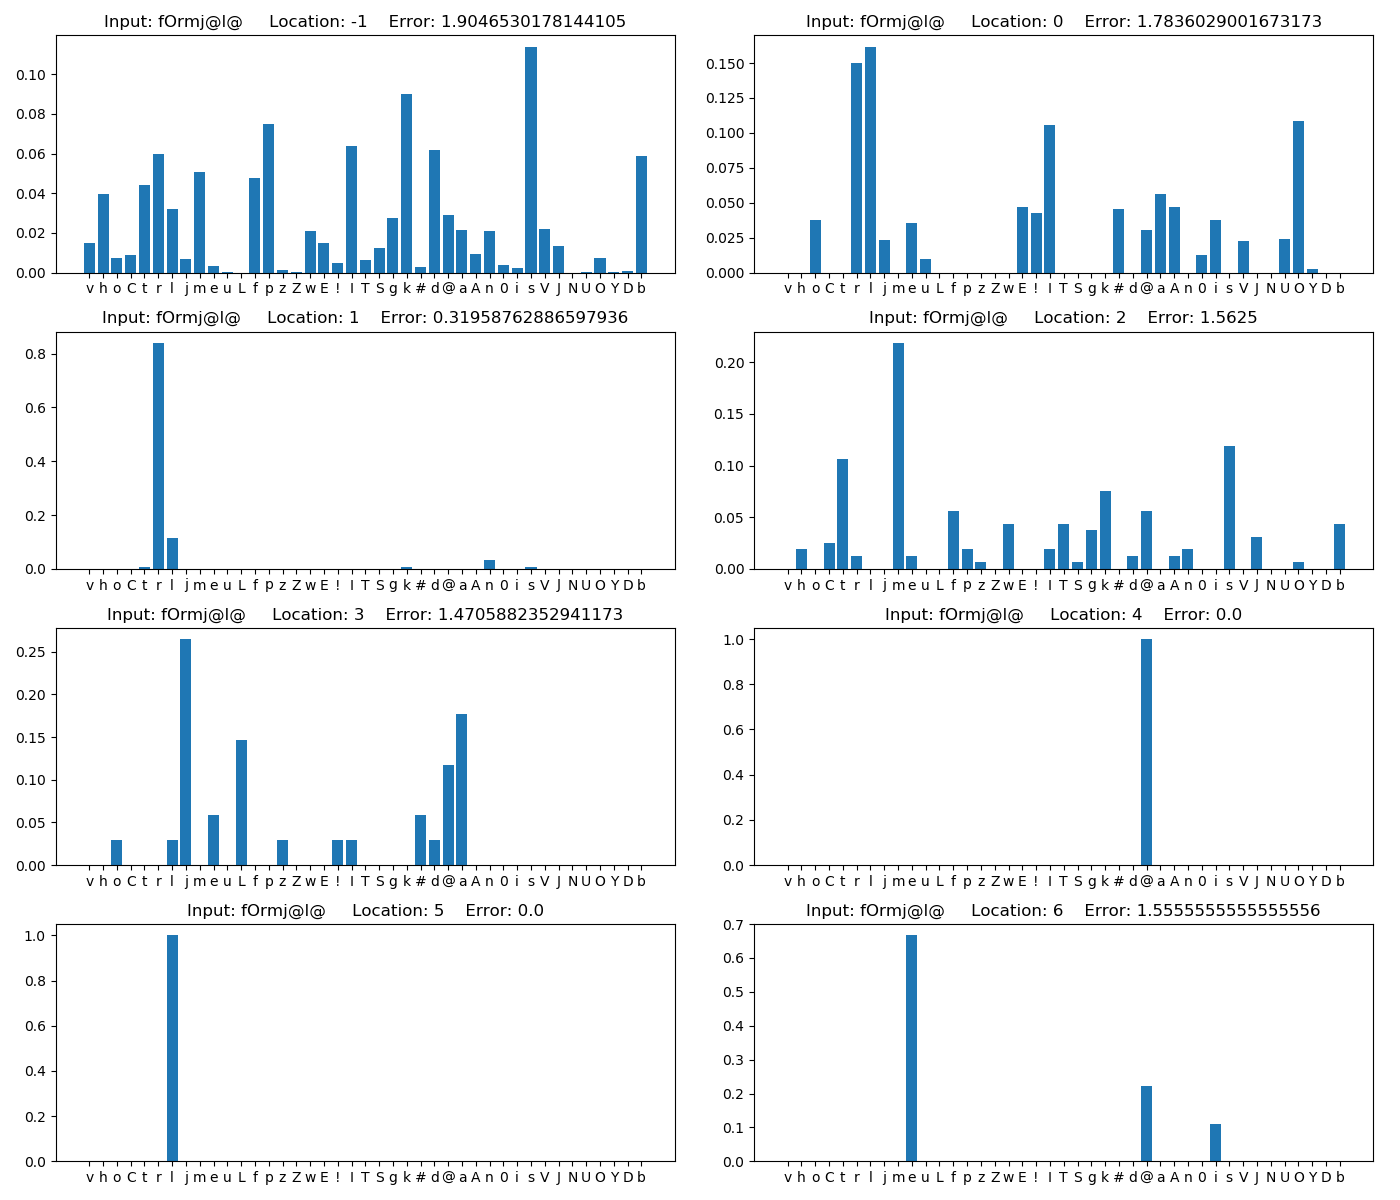
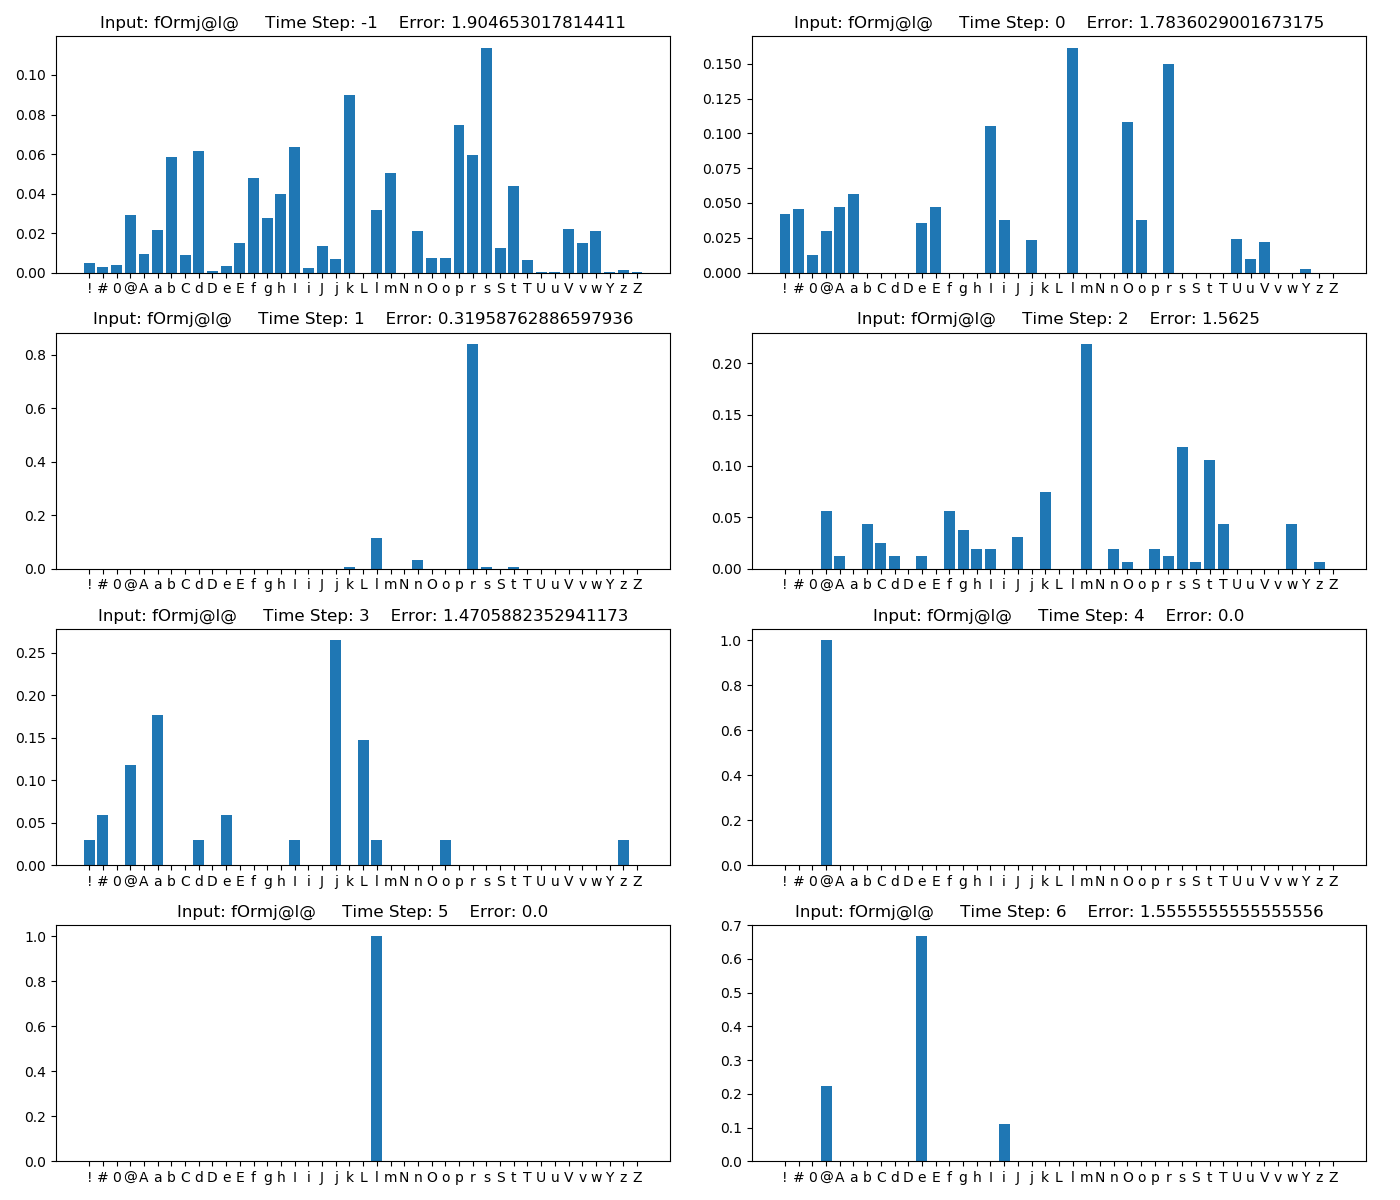
update Gagnepain2012/Gagnepain2012.py
* fix bug to account for when sum_Frequency == 0
* sort phoneme list
* add error plot

diff --git a/Gagnepain2012/Gagnepain2012.py b/Gagnepain2012/Gagnepain2012.py
@@ -30,10 +30,11 @@ class Model:
         self.phoneme_List = []
         for pronunciation in self.pronunciation_Dict.values():
             self.phoneme_List.extend(pronunciation)
-        self.phoneme_List = list(set(self.phoneme_List))
+        self.phoneme_List = sorted(list(set(self.phoneme_List)), key = str.lower)
 
     def Test(self, phoneme_String):
-        probability_Dict = {}
+        probability_Dict = {} # stores probability distribution of phonemes at each time step
+        error_List = [] # stores prediction error at each time step
 
         probability_Dict[-1] = {x:0.0 for x in self.phoneme_List}
         new_Candidate_Word_List = []
@@ -61,7 +62,8 @@ class Model:
                             probability_Dict[index][phoneme] += 1 #self.frequency_Dict[word]
                             break
             sum_Frequency = np.sum([x for x in probability_Dict[index].values()])
-            probability_Dict[index] = {phoneme: probability_Dict[index][phoneme] / sum_Frequency for phoneme in self.phoneme_List}            
+            if sum_Frequency != 0:
+                probability_Dict[index] = {phoneme: probability_Dict[index][phoneme] / sum_Frequency for phoneme in self.phoneme_List}            
             candidate_Word_List = new_Candidate_Word_List
 
         new_Fig = plt.figure(figsize=(7 * np.minimum(2, len(probability_Dict)), 3 * np.ceil(len(probability_Dict) / 2)))
@@ -73,14 +75,25 @@ class Model:
                     error += np.abs(1 - probability_Dict[index][predicted_Phoneme])
                 else:
                     error += np.abs(0 - probability_Dict[index][predicted_Phoneme])
+            
+            error_List.append(error)
+            
             probability_List = [probability_Dict[index][phoneme] for phoneme in self.phoneme_List]
 
             plt.subplot(int(np.ceil(len(probability_Dict) / 2)), np.minimum(2, len(probability_Dict)), index + 2)
             plt.bar(self.phoneme_List, probability_List)
-            plt.title("Input: {}     Location: {}    Error: {}".format(phoneme_String, index, error))
+            plt.title("Input: {}     Time Step: {}    Error: {}".format(phoneme_String, index, error))
             plt.draw()
         plt.tight_layout()
         plt.show()
+
+        fig = plt.figure(figsize=(7, 7))
+        plt.xticks(np.arange(len(phoneme_String)), list(phoneme_String))
+        plt.plot(error_List[0:len(phoneme_String)], 'ro-')
+        plt.ylim((0, 2.5))
+        plt.xlabel("Input at Each Time Step")
+        plt.ylabel("Prediction Error")
+        plt.draw()
 
 if __name__ == '__main__':
     new_Model = Model()

diff --git a/README.md b/README.md
@@ -2,7 +2,6 @@
 Implementation of several predictive coding models
 
 # Gagnepain 2012
-__※To Monica: I think you have a bug fix version. Please modify the ['L67-L83'](./Gagnepain2012/Gagnepain2012.py#L67-L83) section to match your bug fix version.__
 
 ```
 Gagnepain, P., Henson, R. N., & Davis, M. H. (2012). Temporal predictive codes for spoken words in auditory cortex. Current Biology, 22(7), 615-621.
@@ -43,6 +42,7 @@ Gagnepain, P., Henson, R. N., & Davis, M. H. (2012). Temporal predictive codes f
 
     * Result example  
     <img src= './Figures/Gagnepain2012.Example.png' width= 50% height= 50% />
+    <img src= './Figures/Gagnepain2012.Error.Example.png' width= 50% height= 50% />
         
 # SRN
 
